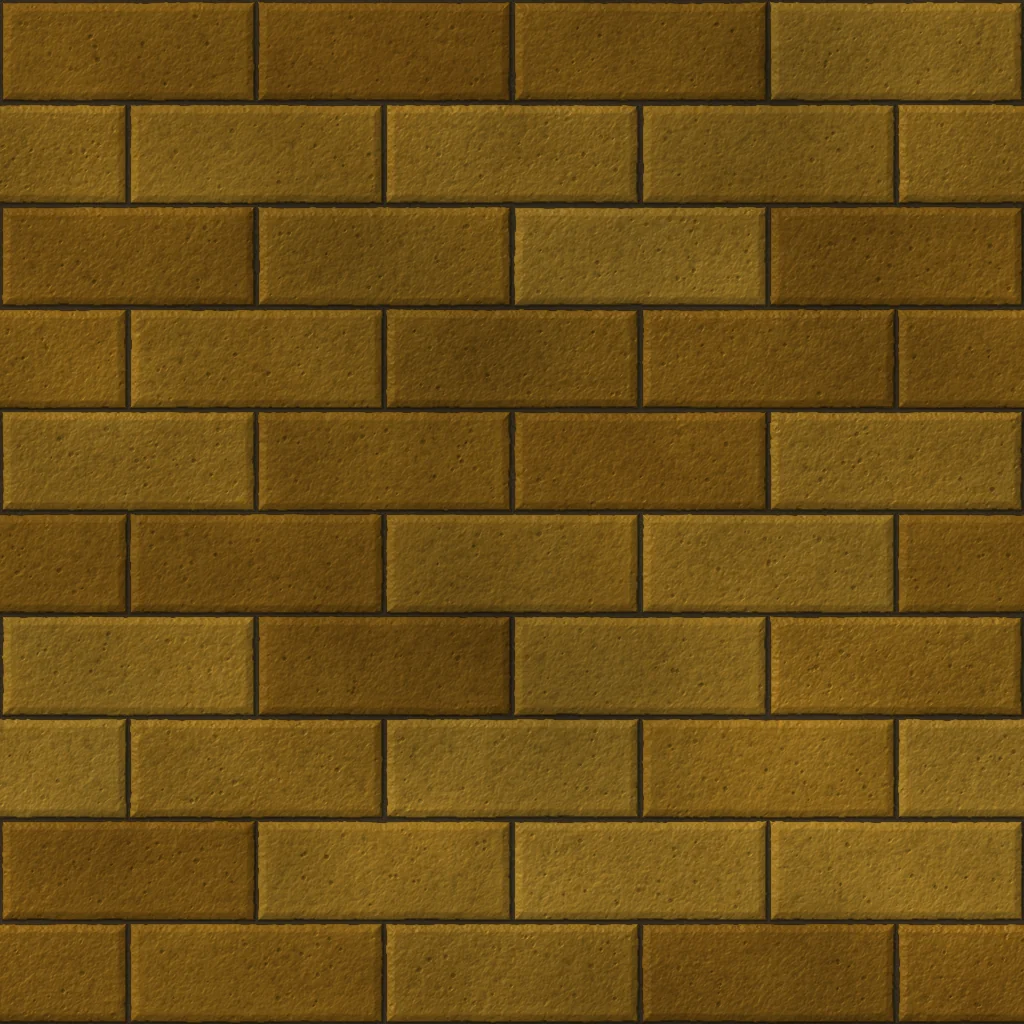
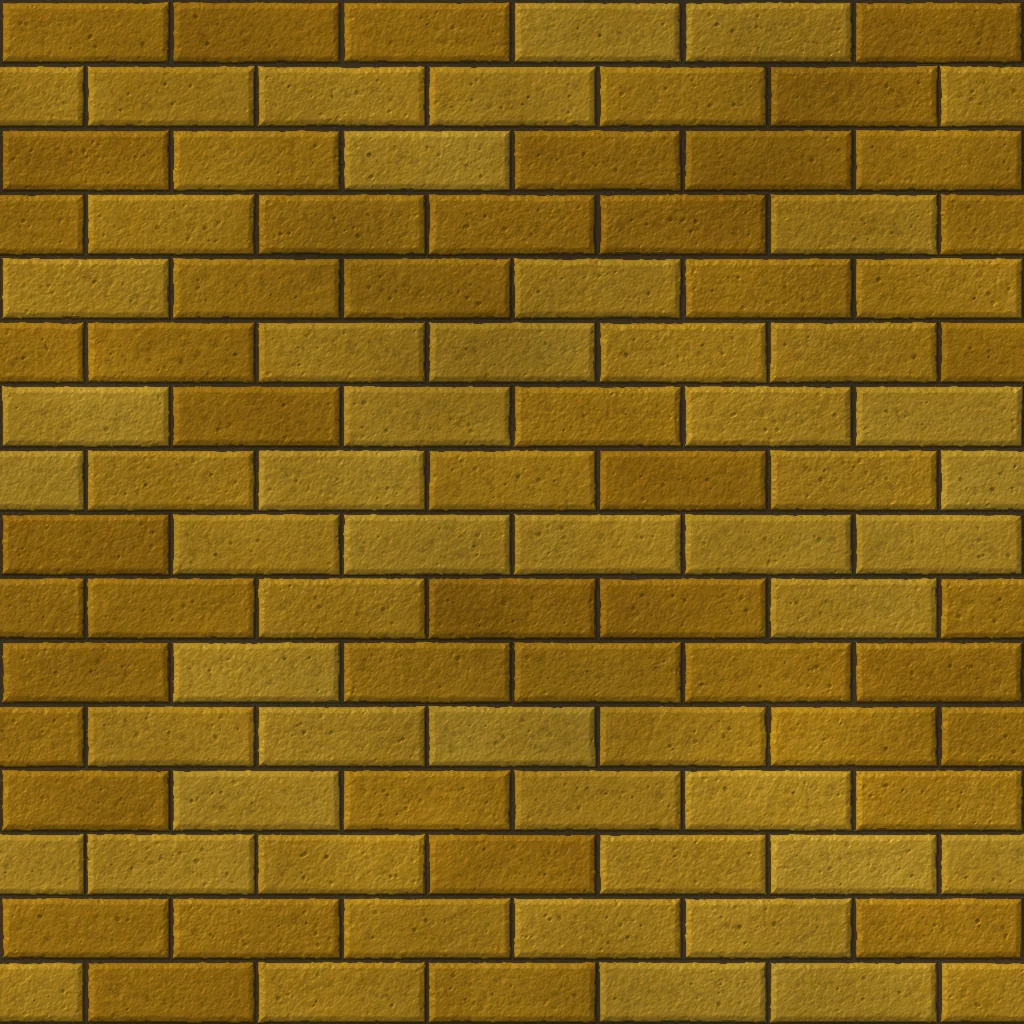
art(ground): Dawn's bricks are more golden and smaller — more per slot
Owner: a little more golden, and zoomed out so a slot holds more bricks.
16 courses x 6 bricks per texture (was 10 x 4), so a slot shows about
seven courses instead of four; a warmer, brighter gold ramp and less soot.

diff --git a/tools/make-grounds.py b/tools/make-grounds.py
@@ -427,7 +427,7 @@ def dusk():
 
 # ── DAWN: golden bricks ──────────────────────────────────────────────────────
 def dawn():
-    rows, cols = 10, 4                               # whole bricks per texture, so it tiles
+    rows, cols = 16, 6                               # whole bricks per texture, so it tiles
     BH, BW = N / rows, N / cols
     row = np.floor(YY / BH)
     shift = (row % 2) * BW / 2                       # running bond
@@ -438,7 +438,7 @@ def dawn():
     chip = (noise(60, 2.5, 0.9) - 0.5) * 1.8 * S     # irregular, chipped arrises
     edge = np.minimum(np.minimum(u, BW - u), np.minimum(v, BH - v)) + chip
     mortar = np.clip(1 - (edge - 0.5 * S) / (0.8 * S), 0, 1)
-    bevel = np.clip(edge / (5 * S), 0, 1) ** 0.5
+    bevel = np.clip(edge / (4 * S), 0, 1) ** 0.5
     tilt = ((hash01(k, 1) - 0.5) * (u / BW) + (hash01(k, 2) - 0.5) * (v / BH)) * 0.18
     r = np.random.default_rng(61)
     pits = np.zeros((N, N))
@@ -449,14 +449,14 @@ def dawn():
     dif, spec = lighting(h, 8, spec_pow=24)
     ao = occlusion(h, 3, 3.0, 0.5)
     brick = ramp(hash01(k, 3) * 0.55 + noise(31, 30, 0.6) * 0.25 + fbm(65, [1.5, 5]) * 0.2,
-                 [(0, (146, 92, 18)), (0.45, (198, 140, 34)), (1, (236, 184, 64))])
+                 [(0, (178, 116, 14)), (0.45, (226, 164, 28)), (1, (252, 206, 70))])
     a = shade(brick, dif, 0.48, ao)
     glaze = (1 - mortar) * (0.5 + 0.5 * hash01(k, 4))   # some bricks are glazed and catch the sun
     a += (spec * glaze)[..., None] * np.array([255, 220, 140]) * 0.22
     grit = ramp(noise(64, 0.8, 0.2), [(0, (66, 54, 38)), (1, (100, 84, 60))])
     a = a * (1 - mortar[..., None]) + shade(grit, dif, 0.8) * mortar[..., None]
-    a *= (0.8 + 0.3 * noise(32, 80, 0.4))[..., None]   # soot and sun
-    save("dawn", a * 0.66)
+    a *= (0.86 + 0.22 * noise(32, 80, 0.4))[..., None]   # soot and sun
+    save("dawn", a * 0.7)
 
 
 ALL = {f.__name__: f for f in (leaf, pyro, aqua, gale, bolt, bore, dusk, dawn)}
